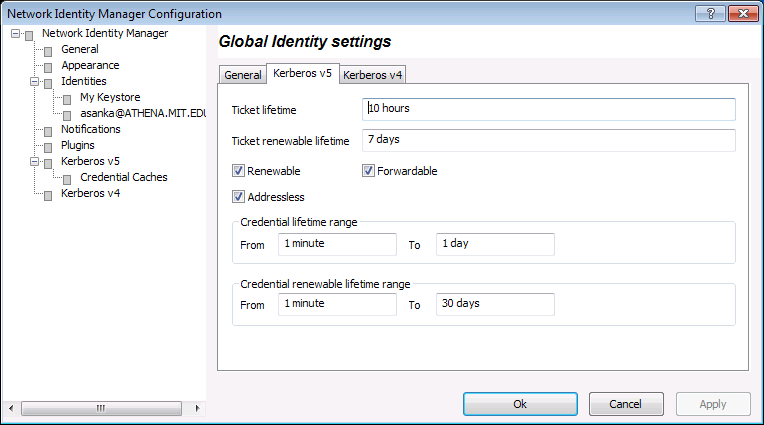
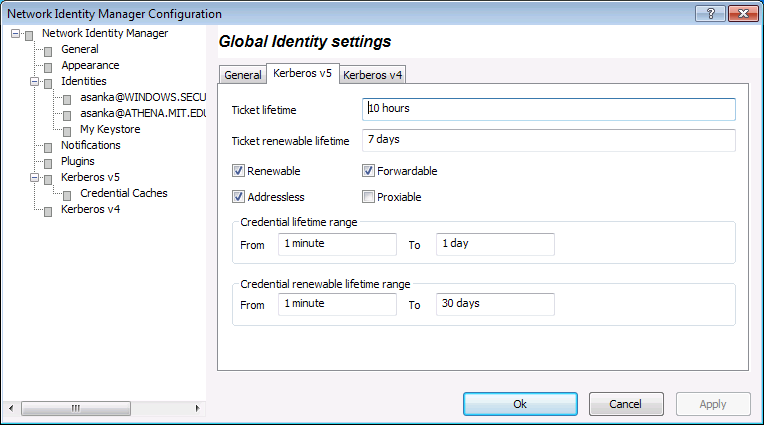
Documentation updates

diff --git a/help/html/menu_options.htm b/help/html/menu_options.htm
@@ -34,26 +34,28 @@ pressing the highlighted character.
 
 <ul>
 
-<li><a name="general"></a><span class="title">General ...</span>: Opens
-the NetIDMgr general configuration panel.  This panel allows you to
-configure settings related to the startup/shutdown of NetIDMgr in
-addition to debugging and monitoring options.</li>
+<li><a name="general"></a><span class="title"><a href="config_general.htm">General
+...</a></span>: Opens the NetIDMgr general configuration panel</a>.
+This panel allows you to configure settings related to the
+startup/shutdown of NetIDMgr in addition to debugging and monitoring
+options.</li>
 
-<li><a name="appearance"></a><span class="title">Appearance ...</span>:
-Provides options for customizing the appearance of the credentials
-window.  Currently, the only options provided are for selecting the
-font used for the credentials list.</li>
+<li><a name="appearance"></a><span class="title"><a href="config_appearance.htm">Appearance
+...</a></span>: Provides options for customizing the appearance of the
+credentials window.  Currently, the only options provided are for
+selecting the font used for the credentials list.</li>
 
-<li><a name="identities"></a><span class="title">Identities ...</span>:
-Opens the identities configuration panel.  These options control
-credentials defaults for all identities or for specific identities.</li>
+<li><a name="identities"></a><span class="title"><a href="config_identities.htm">Identities
+...</a></span>: Opens the identities configuration panel.  These
+options control credentials defaults for all identities or for
+specific identities.</li>
 
-<li><a name="notifications"></a><span class="title">Notifications
-...</span>: The notifications configuration panel controls the
+<li><a name="notifications"></a><span class="title"><a href="config_notifications.htm">Notifications
+...</a></span>: The notifications configuration panel controls the
 settings used by the NetIDMgr timer that triggers warnings and
 identity renewals.</li>
 
-<li><a name="plugins"></a><span class="title">Plug-ins ...</span>:
+<li><a name="plugins"></a><span class="title"><a href="config_plugins.htm">Plug-ins ...</a></span>:
 Options for enabling or disabling specific plug-ins and also for
 viewing information about loaded plug-ins.</li>
 

diff --git a/help/html/act_set_default.htm b/help/html/act_set_default.htm
@@ -10,20 +10,29 @@
 <h1>Setting As Default Identity</h1>
 
 <p>
-  One identity can be designated as the default identity.  The default
-  identity is the identity used by Kerberos v5 and GSS-API based
+  One identity can be designated as the default identity.
+  The <a href="concept_identity.htm#default_identity">default
+  identity</a> is the identity used by Kerberos v5 and GSS-API based
   applications which use the default Kerberos v5 credential cache and
   do not request the use of a network identity by name.
 </p>
+
+<p>The default identity is indicated in the credentials display using
+  a filled star icon (<img src="images/star-1-hi.png" />).  A
+  non-default identity has an empty start icon
+  (<img src="images/star-0-hi.png" />). </p>
+
 <p>
   The following methods can be used to set an identity as the default identity:</p>
 <ol>
-	<li>In the NetIdMgr application window, select the desired identity and
-	choose the <i>Credentials-&gt;Set Default </i>menu item.</li>
-	<li>In the NetIdMgr application window, select the desired identity, click
-	the right mouse button, and choose the <i>Set as default</i> menu item.</li>
-	<li>Click the right mouse button on the NetIdMgr notification icon.&nbsp;
-	Choose the desired identity on the <i>Set Default</i> sub-menu.</li>
+  <li>Click on the star (<img src="images/star-0-hi.png" />) next to
+    the identity in the credentials display.</li>
+  <li>In the NetIdMgr application window, select the desired identity and
+    choose the <i>Credentials-&gt;Set Default </i>menu item.</li>
+  <li>In the NetIdMgr application window, select the desired identity, click
+    the right mouse button, and choose the <i>Set as default</i> menu item.</li>
+  <li>Click the right mouse button on the NetIdMgr notification icon.&nbsp;
+    Choose the desired identity on the <i>Set Default</i> sub-menu.</li>
 </ol>
 <p>&nbsp;</p>
 

diff --git a/help/html/nidmgr.css b/help/html/nidmgr.css
@@ -118,7 +118,7 @@
 
   div.schema-space {
       border-left: 1px solid rgb(230, 206, 142);
-      padding: 0pt;
+      padding: 0;
       margin-left: 1em;
       margin-top: 0.5em;
       margin-bottom: 0.5em;
@@ -136,7 +136,7 @@
   p.schema-space {
       border-top: 1px solid rgb(230, 206, 142);
       margin: 0pt;
-      padding: 1em;
+      padding: 0.5em;
       font-weight: bold;
       font-size: 10pt;
       background-color: rgb(242, 233, 208);
@@ -152,8 +152,8 @@
   span.schema-label {
       display: block;
       float: left;
-      margin-left: 2em;
-      width: 10em;
+      margin-left: 1em;
+      width: 7em;
   }
 
   span.schema-value {
@@ -168,12 +168,14 @@
       background-color: rgb(234, 242, 208);
       margin-left: 1em;
       margin-right: 1em;
-      margin-bottom: 1em;
+      margin-bottom: 0.2em;
   }
 
   p.schema-value-name {
-      margin: 0.5em 1em;
-      padding: 0.5em 1em;
+      margin: 0.2em 1em;
+      padding: 0.2em 0.2em;
+      float: left;
+      width: 12em;
   }
 
   span.schema-value-name {
@@ -181,12 +183,36 @@
       font-weight: bold;
   }
 
-  p.schema-value-type {  }
+  p.schema-value-type {
+      padding: 0.1em 1em 0.1em 0.1em;
+      margin: 0.5em 0 0 1em;
+      float: left;
+  }
 
-  p.schema-value-def {  }
+  p.schema-value-type span.schema-label {
+      display: none;
+  }
+
+  p.schema-value-type span.schema-value {
+      width: 10em;
+      font-size: 8pt;
+      text-align: center;
+      background-color: rgb(240, 240, 240);
+  }
+
+  p.schema-value-def {
+      padding: 0.1em 1em 0.1em 0.1em;
+      margin: 0.5em 0 0 1em;
+  }
+
+  p.schema-value-def span.schema-label {
+      width: 1%;
+      margin-right: 0.2em;
+  }
 
   div.schema-value-doc {
       padding: 1em;
+      margin: 0 0 0 3em;
   }
 
   dl.options {

diff --git a/help/html/whatsnew.htm b/help/html/whatsnew.htm
@@ -14,7 +14,9 @@
     <h3>Network Identity Manager 2.0</h3>
 
     <p>This version of Network Identity Manager presents a significant
-      improvement over the Network Identity Manager 1.x.
+      improvement over the Network Identity Manager 1.x.  Here are
+      some of the highlights:
+    </p>
 
     <h4>Multiple identity provider support</h4>
 
@@ -49,7 +51,7 @@
       once for each identity and is optional.</p>
 
     <p>The new credentials wizard is
-      documented <a href="act_new_creds.htm">here</a>
+      documented <a href="act_new_creds.htm">here</a>.
 
     <h4>Credentials Display</h4>
 
@@ -57,6 +59,17 @@
       replaced.  <a href="wnd_main.htm">The new interface</a> supports
       more widgets and provides live feedback of on-going credential
       operations.
+    </p>
+
+    <h4>Custom Identity Icons</h4>
+
+    <p>Icons displayed next to identities can now be customized using
+      any source image. The icon may be based on an image available on
+      the local file system or Network Identity Manager can download
+      an image from a URL.  In addition, the icon can also be based on
+      a favicon for a web site or fetched from Gravatar.com based on
+      an email address.  More information about customizing identity
+      icons can be found <a href="config_idicon.htm">here</a>.
     </p>
 
     <h4>KeyStore</h4>

diff --git a/help/html/menu_credential.htm b/help/html/menu_credential.htm
@@ -71,7 +71,11 @@ without invoking the <span class="pre">Credential</span> menu.
     password...</span>: Changes the password for the selected
     identity.  However, once the new password dialog opens, you can
     change the identity for which the password is getting
-    changed.</p></li>
+    changed.</p>
+
+    <p>See <span class="pre"><a href="act_chpw.htm">Change password
+    Action</a></span> for more information.</p>
+  </li>
 
   <li><p><a name="import"></a> <span class="title">Import
       Credentials</span>: Import any existing credentials from
@@ -79,6 +83,9 @@ without invoking the <span class="pre">Credential</span> menu.
       v5 <a href="concept_cred_pro.htm">credentials provider</a>, the
       Windows logon identity stored in the Microsoft Windows LSA cache
       will be imported.</p>
+
+    <p>See <span class="pre"><a href="act_import_creds.htm">Import
+          Action</a></span> for more information.</p>
 
     <div class="note">
       <img src="images/note.png" />

diff --git a/help/html/act_destroy_creds.htm b/help/html/act_destroy_creds.htm
@@ -29,8 +29,9 @@ pressing the <span class="pre">Delete</span> key or by
 pressing <span class="pre">Ctrl + D</span>.  You can also select
 the <span class="pre">Delete credentials</span> action from the
 context menu (available via right-clicking inside the credentials
-window) or the credentials menu.  The destroy command can also be
-found on the <a href="tb_standard.htm">toolbar</a>.
+window) or the credentials menu.  The destroy credentals command
+(<img src="images/tk-delete.bmp"/>) can also be found on
+the <a href="tb_standard.htm">toolbar</a>.
 </p>
 
 <p>Once credentials are destroyed, you must Obtain or Import new

diff --git a/help/html/config_idicon.htm b/help/html/config_idicon.htm
@@ -66,6 +66,14 @@
     </ul>
 
     <p>
+      While the image is being fetched, the dialog will show a
+      progress indicator and a button labelled "Stop."&nsbp; Clicking
+      on the button will stop the download.  If any error occurs while
+      the image is being loaded, the error will be shown next to the
+      edit control that was used to specify the resource.
+    </p>
+
+    <p>
       Once you specify the image file to use, NetIDMgr will load the
       image into the crop area on the left side of the dialog.  You
       can drag the borders of the crop rectangle to select the portion

diff --git a/help/html/howdoi.htm b/help/html/howdoi.htm
@@ -48,7 +48,7 @@
   <li><a href="config_identity.htm">Configure which credentials are
       obtained for an identity</a></li>
 
-  <li><a href="use_idicon.htm">Change the icon associated with an identity</a></li>
+  <li><a href="config_idicon.htm">Change the icon associated with an identity</a></li>
 
 </ul>
 
@@ -61,7 +61,7 @@
 
   <li><a href="use_layout.htm">Manage the advanced credentials view layout</a></li>
 
-  <li><a href="use_idicon.htm">Change the icon associated with an identity</a></li>
+  <li><a href="config_idicon.htm">Change the icon associated with an identity</a></li>
 
 </ul>
 

diff --git a/help/html/config_identity_k5.htm b/help/html/config_identity_k5.htm
@@ -33,6 +33,12 @@
       remote file system such as AFS.
     </p>
 
+    <p><span class="pre">Proxiable</span> tickets are similar to
+      Forwardable tickets in their use.  Proxiable initial tickets can
+      be used to obtain service tickets that have an IP address that
+      is different from the initial ticket.  Use of proxiable tickets
+      is generally rare.</p>
+
     <p>When <span class="pre">Renewable tickets</span> are received
       from the Kerberos Server, the ticket lifetimes may be renewed
       without prompting the user for her password.  This allows Kerberos

diff --git a/help/html/use_icon.htm b/help/html/use_icon.htm
@@ -66,8 +66,8 @@ operations.&nbsp; </p>
     <div class="note">
       <img src="images/note.png" alt="Note:">
       <p>Exiting NetIdMgr will not destroy your current Kerberos
-        tickets unless the Destroy all credentials on exit option is
-        configured.  See
+        tickets unless the <span class="pre">Destroy all credentials
+        on exit</span> option is configured.  See
         the <a href="config_general.htm"><span class="pre">Options->General</span></a>
         page.</p>
 

diff --git a/help/html/menu_cred_ctx.htm b/help/html/menu_cred_ctx.htm
@@ -57,7 +57,7 @@
 
   <li><p><a name="newcreds"/><span class="title">Obtain new
         credentials ...</span>: Invokes
-        the <a class="act_new_creds.htm">New credentials wizard</a>.
+        the <a href="act_new_creds.htm">New credentials wizard</a>.
         If an identity is currently selected, that identity will be
         pre-selected as the primary identity for the wizard.</p>
   </li>
